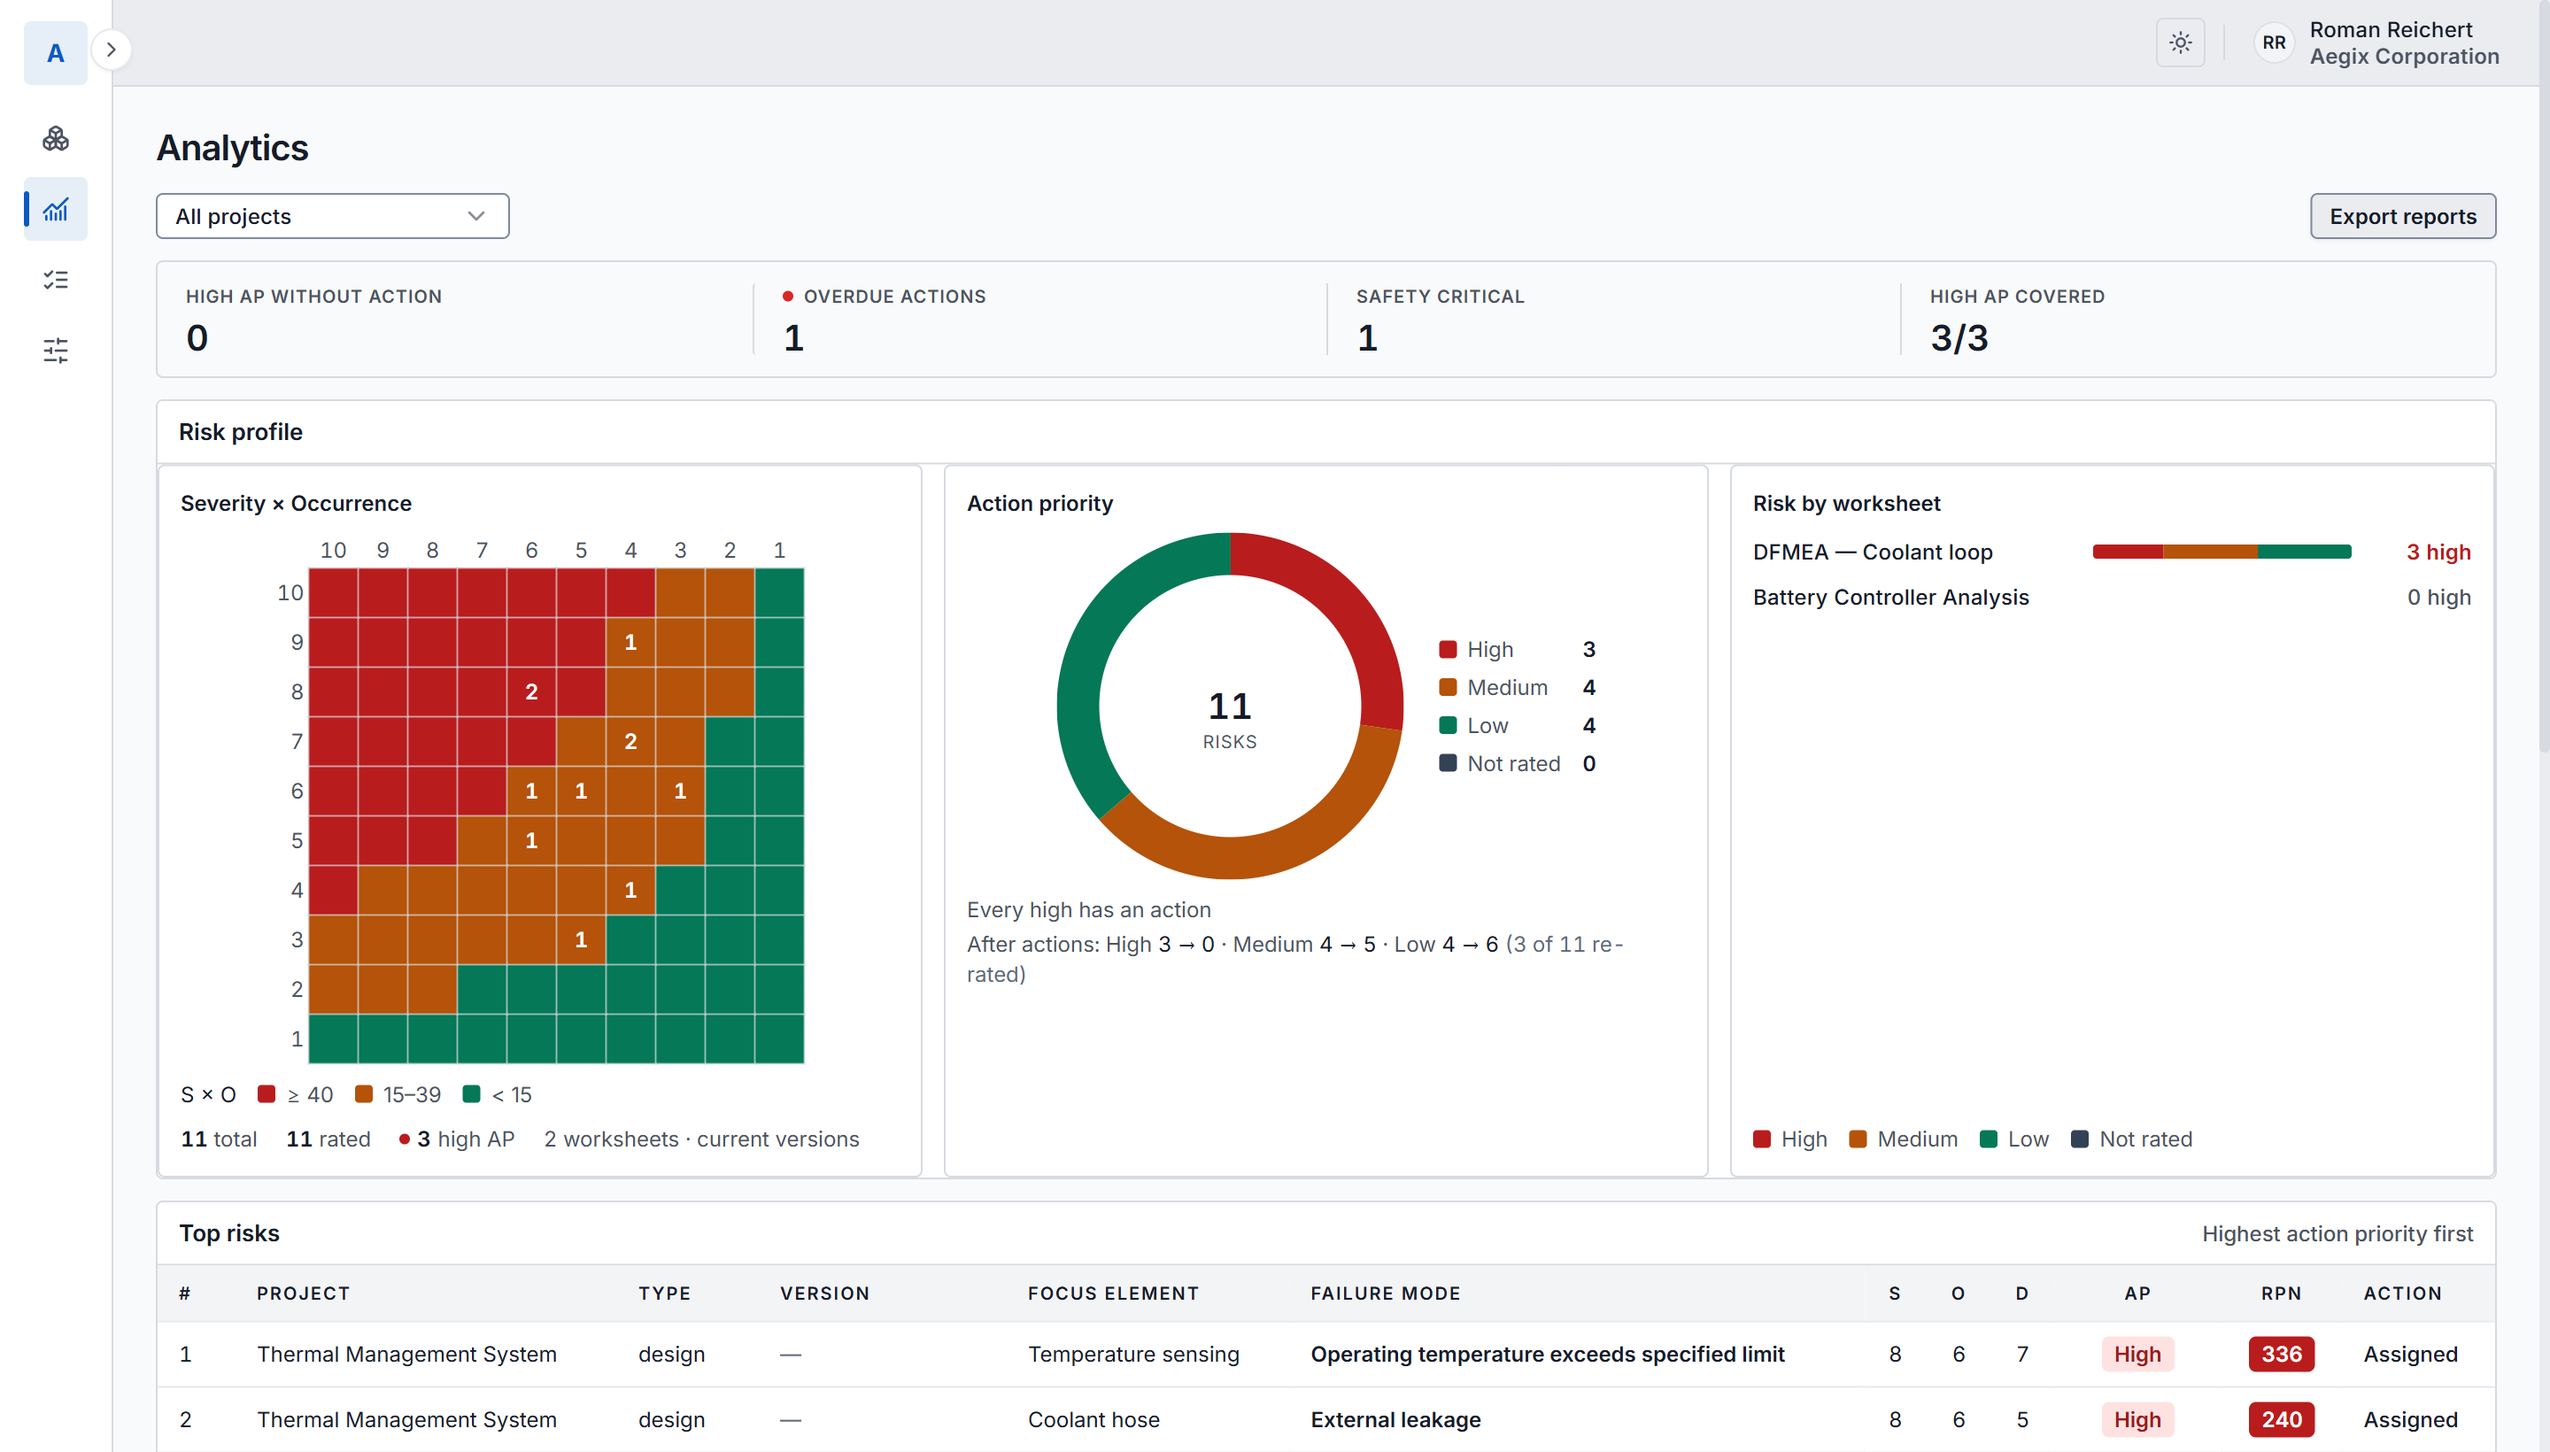
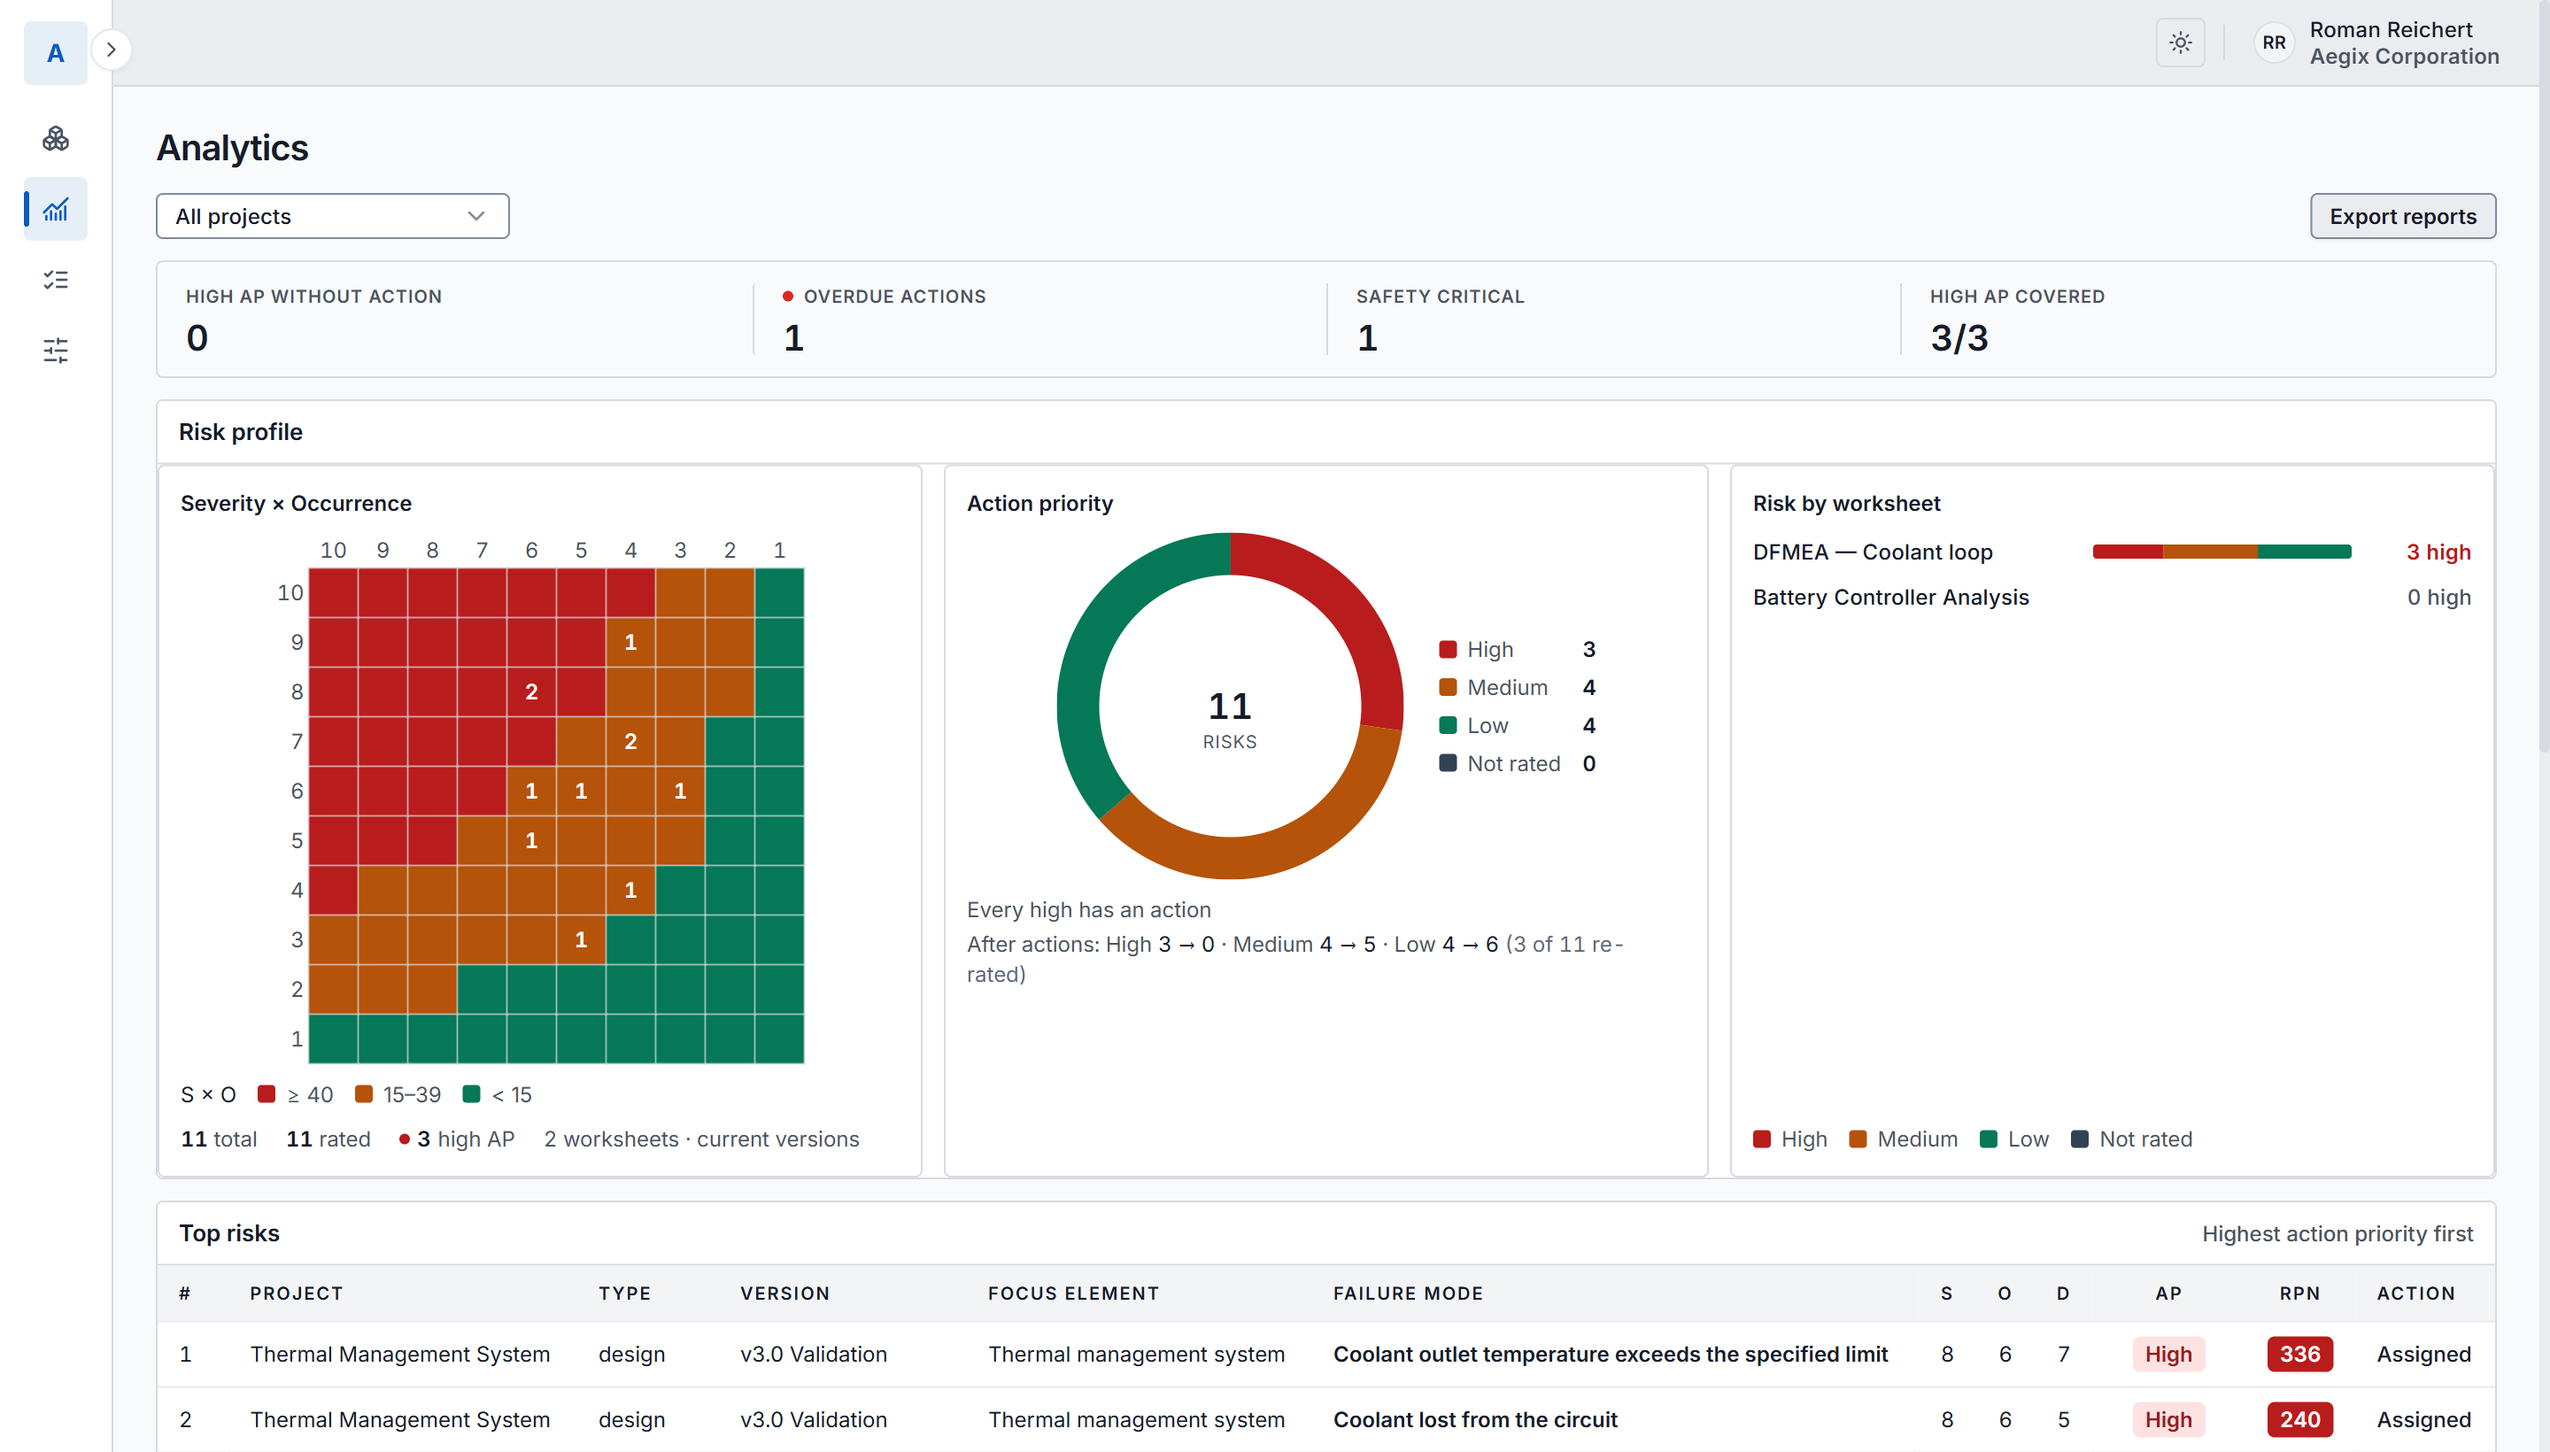
The screenshots show the whole worksheet, and stop contradicting the page
Three things on the page argued against it. The hero showed the Ratings &
Actions view, which is a quarter of an FMEA; the structure shot printed
"Manual, from 0 documents" directly under a section claiming Aegix reads your
documents; and the integrations screenshot had no integration in it.

The hero is now the full AIAG-VDA worksheet: structure, function and failure
analysis, the ratings, and optimisation, all five groups in one frame. Getting
there meant fixing the data rather than the crop. The wide view exposed that the
worksheet was not structure-linked -- next lower level read "None" on all eleven
rows and the lower function held an element name -- so the dataset now follows
the handbook: one focus element, its own failure modes, the effect at the level
above and the cause at the element below, with every link resolving to a real
code in the tree. The structure banner reads "Hybrid, from three documents"
because the structure genuinely came from documents and was then edited, which
is what the product does.

The side menu is collapsed where it only cost width, and the structure shot uses
the tree with the element inspector beside it rather than the flat list.

Analytics and actions were re-shot against the same data, so the failure modes
on the dashboard are the ones in the worksheet.

diff --git a/home/index.html b/home/index.html
@@ -289,11 +289,11 @@
 						<span class="frame-path">app.aegix.eu / worksheet</span>
 					</div>
 					<div class="frame-body">
-						<img src="shots/worksheet.png" width="2880" height="1620"
-						     alt="An Aegix DFMEA worksheet for a thermal management system. Each row carries the failure chain — element, function, failure effect, failure mode, failure cause — then severity, occurrence and detection, the resulting Action Priority, the linked actions, and the re-rated values after those actions." />
+						<img src="shots/worksheet.png" width="2960" height="625"
+						     alt="A complete AIAG-VDA DFMEA worksheet in Aegix. Five column groups run left to right: structure analysis naming the next higher level, the focus element and the next lower level; function analysis; failure analysis with the effect, the mode and the cause; the severity, occurrence and detection ratings with the resulting action priority; and optimisation, with the linked actions and the re-rated values." />
 					</div>
 				</figure>
-				<p class="shot-cap">One worksheet, read left to right: <b>the failure chain</b>, then <b>S &middot; O &middot; D</b> and the Action Priority they produce, then <b>the actions</b>, then what the ratings become once those actions land.</p>
+				<p class="shot-cap">The whole seven-step worksheet on one screen: <b>structure</b>, <b>function</b>, <b>failure</b>, the <b>S · O · D</b> ratings and the Action Priority they produce, then <b>optimisation</b> — every row carrying the artifact code of the element and function it came from.</p>
 			</div>
 		</section>
 
@@ -414,11 +414,11 @@
 						<span class="frame-path">app.aegix.eu / dfmea-structure</span>
 					</div>
 					<div class="frame-body">
-						<img src="shots/structure.png" width="2880" height="1630"
-						     alt="The DFMEA structure of a thermal management system in Aegix, listed as a chain: the system, its function, the requirement that function must meet, then each subsystem and component with their own functions, requirements and failure modes. Every row names its parent." />
+						<img src="shots/structure.png" width="2880" height="600"
+						     alt="The DFMEA structure of a thermal management system in Aegix: a tree on the left holding the system, its function, five subsystems and an interface, each with its artifact code, and an inspector on the right showing the selected element's type and its functions with the number of requirements and failure modes on each." />
 					</div>
 				</figure>
-				<p class="shot-cap">The structure behind the worksheet. A requirement sits under the function it constrains, a failure mode under the function it threatens — so <b>every row knows where it came from</b>.</p>
+				<p class="shot-cap">The structure behind the worksheet, and what the worksheet points at. The banner says where it came from — <b>generated from three documents, then worked on by engineers</b> — and each function carries its own requirement and failure-mode counts.</p>
 			</div>
 		</section>
 
